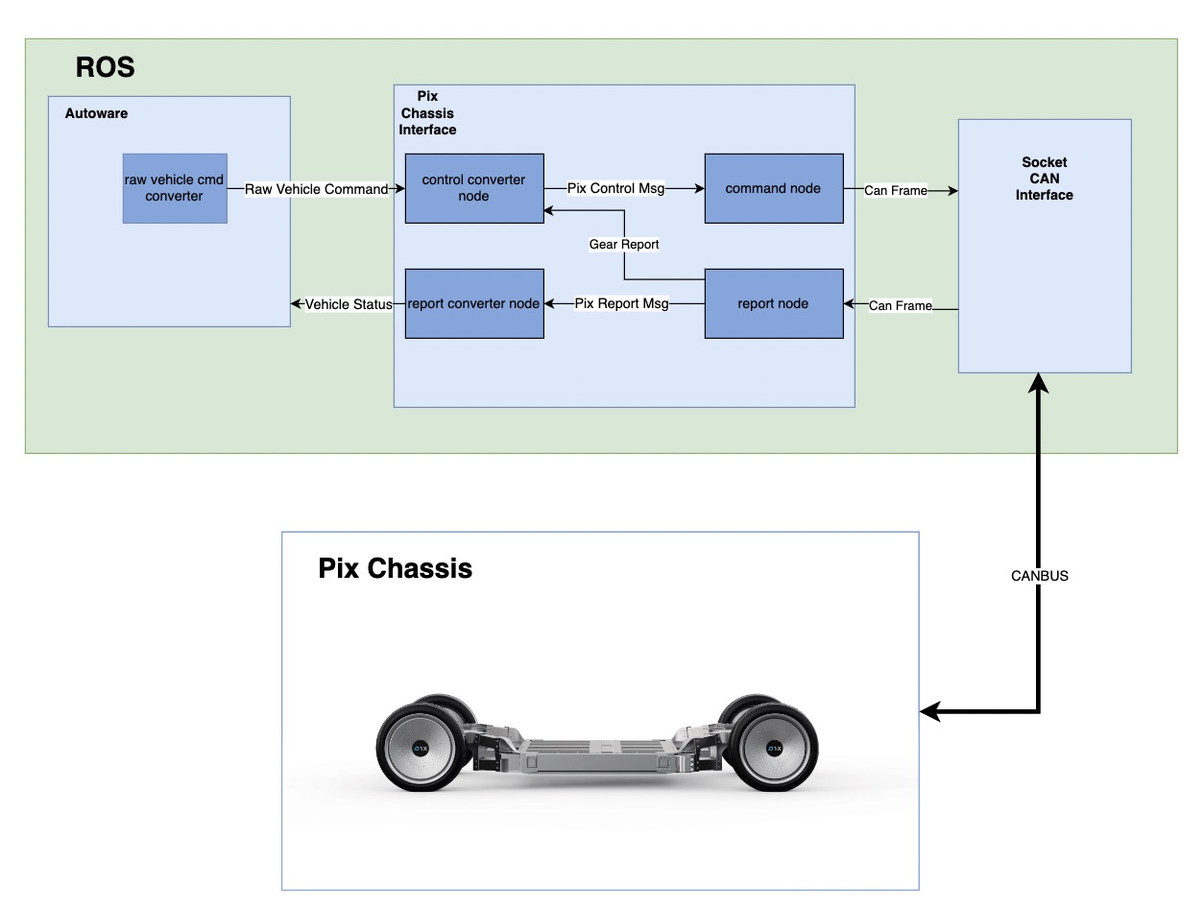
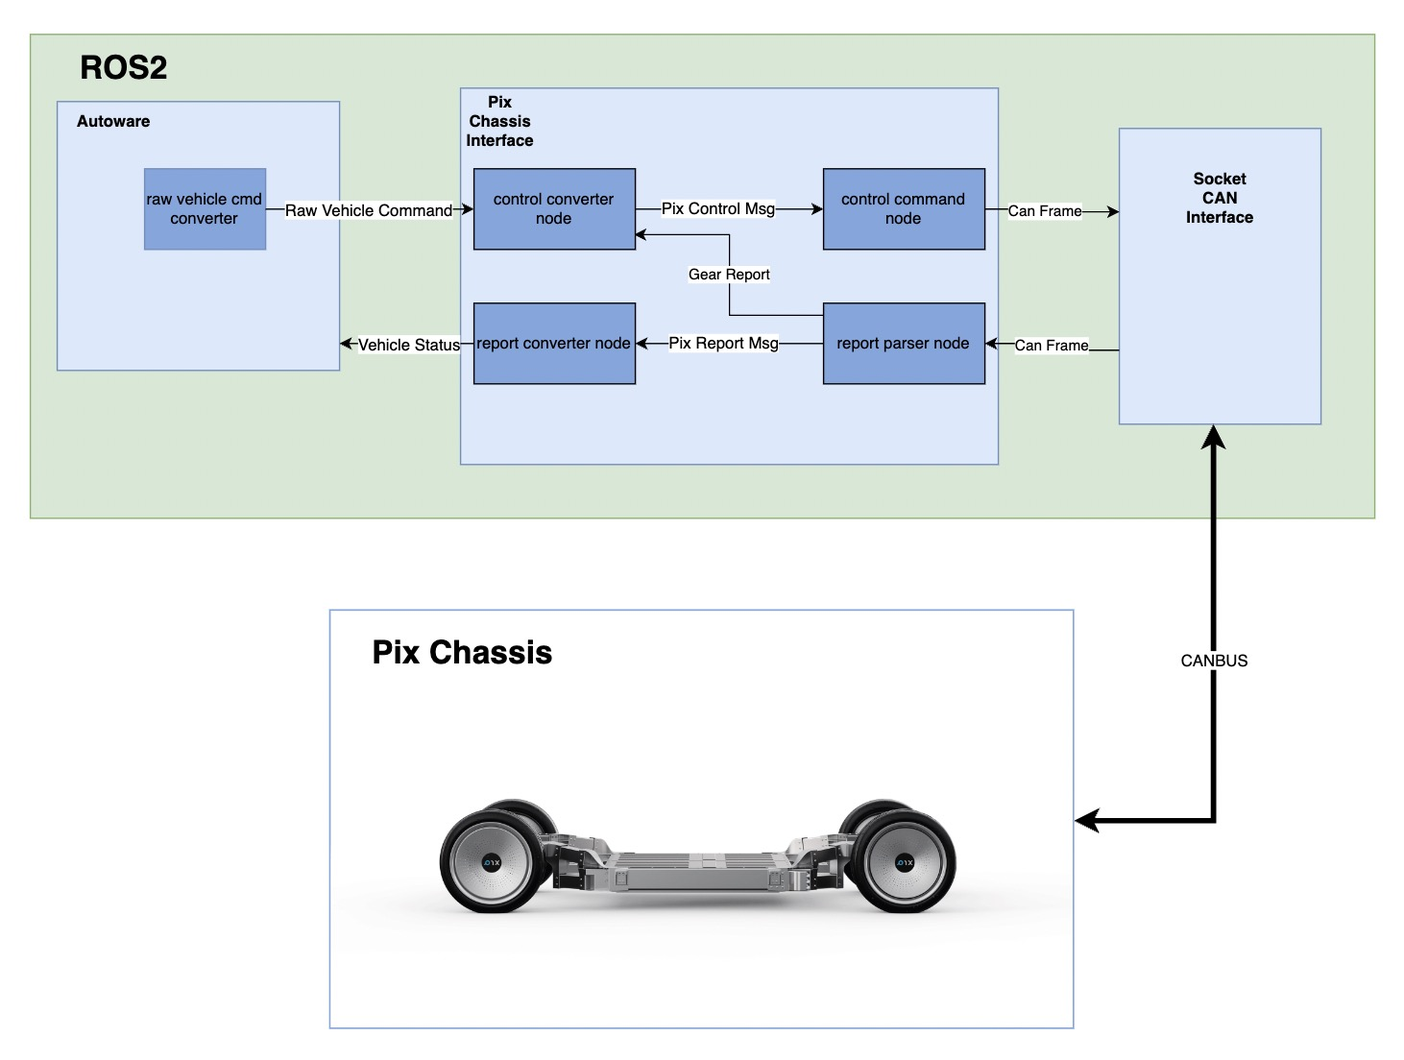
feat(vehicle-interface)/update design image and format doc

diff --git a/docs/hands-on-Autoware/vehicle-interface.md b/docs/hands-on-Autoware/vehicle-interface.md
@@ -27,15 +27,16 @@ There are three main functions for Pix Chasssis Interface:
 
 | Input           | Topic(Data Type)                                                   | Explanation |
 | --------------- | ------------------------------------------------------------------ | ----------- |
-| autonomous driving to vehicle drive control| `/pix_hooke/a2v_drivectrl_130`<br>([pix_hooke_driver_msgs/msg/A2vDriveCtrl](https://github.com/pixmoving-moveit/pix_driver/blob/main/pix_hooke_driver_msgs/msg/A2vDriveCtrl.msg)) | [table below](#the-detailed-contents-in-a2vdrivectrlself-driving-to-vehicle-drive-control-are-as-follows) |
-| autonomous driving to vehicle brake control|`/pix_hooke/a2v_brakectrl_131`<br>([pix_hooke_driver_msgs/msg/A2vBrakeCtrl](https://github.com/pixmoving-moveit/pix_driver/blob/main/pix_hooke_driver_msgs/msg/A2vBrakeCtrl.msg)) | [table below](#the-detailed-contents-in-a2vbrakectrlself-driving-to-vehicle-brake-control-are-as-follows) |
-| autonomous driving to vehicle steering control |`/pix_hooke/a2v_steerctrl_132`<br>([pix_hooke_driver_msgs/msg/A2vSteerCtrl](https://github.com/pixmoving-moveit/pix_driver/blob/main/pix_hooke_driver_msgs/msg/A2vSteerCtrl.msg)) | [table below](#the-detailed-contents-in-a2vsteerctrlself-driving-to-vehicle-steering-control-are-as-follows) |
-| autonomous driving to vehicle control|`/pix_hooke/a2v_vehiclectrl_133`<br>([pix_hooke_driver_msgs/msg/A2vWheelCtrl](https://github.com/pixmoving-moveit/pix_driver/blob/main/pix_hooke_driver_msgs/msg/A2vWheelCtrl.msg)) | [table below](#the-detailed-contents-in-a2vvehiclectrlself-driving-to-vehicle-vehicle-control-are-as-follows) |
-| autonomous driving to vehicle motor control|`/pix_hooke/a2v_wheelctrl_135`<br>([pix_hooke_driver_msgs/msg/A2vVehicleCtrl](https://github.com/pixmoving-moveit/pix_driver/blob/main/pix_hooke_driver_msgs/msg/A2vVehicleCtrl.msg)) | [table below](#the-detailed-contents-in-a2vwheelctrlself-driving-to-vehicle-motor-control-are-as-follows) |
+| autonomous driving to vehicle drive control| `/pix_hooke/a2v_drivectrl_130`<br>([pix_hooke_driver_msgs/msg/A2vDriveCtrl](https://github.com/pixmoving-moveit/pix_driver/blob/main/pix_hooke_driver_msgs/msg/A2vDriveCtrl.msg)) | [A2vDriveCtrl](#a2vdrivectrl) |
+| autonomous driving to vehicle brake control|`/pix_hooke/a2v_brakectrl_131`<br>([pix_hooke_driver_msgs/msg/A2vBrakeCtrl](https://github.com/pixmoving-moveit/pix_driver/blob/main/pix_hooke_driver_msgs/msg/A2vBrakeCtrl.msg)) | [A2vBrakeCtrl](#a2vbrakectrl) |
+| autonomous driving to vehicle steering control |`/pix_hooke/a2v_steerctrl_132`<br>([pix_hooke_driver_msgs/msg/A2vSteerCtrl](https://github.com/pixmoving-moveit/pix_driver/blob/main/pix_hooke_driver_msgs/msg/A2vSteerCtrl.msg)) | [A2vSteerCtrl](#a2vsteerctrl) |
+| autonomous driving to vehicle control|`/pix_hooke/a2v_vehiclectrl_133`<br>([pix_hooke_driver_msgs/msg/A2vVehicleCtrl](https://github.com/pixmoving-moveit/pix_driver/blob/main/pix_hooke_driver_msgs/msg/A2vVehicleCtrl.msg)) | [A2vVehicleCtrl](#a2vvehiclectrl) |
+| autonomous driving to vehicle motor control|`/pix_hooke/a2v_wheelctrl_135`<br>([pix_hooke_driver_msgs/msg/A2vWheelCtrl](https://github.com/pixmoving-moveit/pix_driver/blob/main/pix_hooke_driver_msgs/msg/A2vWheelCtrl.msg)) | [A2vWheelCtrl](#a2vwheelctrl) |
 
-#### **The detailed contents in `A2vDriveCtrl(self-driving to vehicle drive control)` are as follows.**
+#### A2vDriveCtrl
+**The detailed contents in `A2vDriveCtrl(self-driving to vehicle drive control)` are as follows.**
 
-| Input                  | Data Type        | Explanation                            |
+| Content                  | Data Type        | Explanation                            |
 | ----------------------- | ---------------- | -----------                            |
 | header | std_msgs/Header | header                   |
 | acu_chassis_driver_en_ctrl  | std_msgs/int8 | enable/disable longitudinal acceleration contrl `{0: 'ACU_CHASSISDRIVERENCTRL_DISABLE', 1: 'ACU_CHASSISDRIVERENCTRL_ENABLE'}` |
@@ -44,9 +45,10 @@ There are three main functions for Pix Chasssis Interface:
 | acu_chassis_speed_ctrl | std_msgs/float32 | Target velocity [m/s] |
 | acu_chassis_throttle_pdl_target | std_msgs/float32 | target accel pedal value `0.0-100.0` |
 
-#### **The detailed contents in `A2vBrakeCtrl(self-driving to vehicle brake control)` are as follows.**
+#### A2vBrakeCtrl
+**The detailed contents in `A2vBrakeCtrl(self-driving to vehicle brake control)` are as follows.**
 
-| Input                  | Data Type        | Explanation                            |
+| Content                  | Data Type        | Explanation                            |
 | ----------------------- | ---------------- | -----------                            |
 | header                | std_msgs/Header | header                   |
 | acu_chassis_brake_en  | std_msgs/int8 | enable/disable longitudinal deacceleration contrl `0: 'ACU_CHASSISBRAKEEN_DISABLE', 1: 'ACU_CHASSISBRAKEEN_ENABLE'` |
@@ -54,9 +56,10 @@ There are three main functions for Pix Chasssis Interface:
 | acu_chassis_brake_pdl_target | std_msgs/float32 | target brake pedal value `0.0-100.0`|
 | acu_chassis_epb_ctrl | std_msgs/int8 |parking brake control `0: 'ACU_CHASSISEPBCTRL_DEFAULT', 1: 'ACU_CHASSISEPBCTRL_BRAKE', 2: 'ACU_CHASSISEPBCTRL_RELEASE'`|
 
-#### **The detailed contents in `A2vSteerCtrl(self-driving to vehicle steering control)` are as follows.**
+#### A2vSteerCtrl
+**The detailed contents in `A2vSteerCtrl(self-driving to vehicle steering control)` are as follows.**
 
-| Input                  | Data Type        | Explanation                            |
+| Content                  | Data Type        | Explanation                            |
 | ----------------------- | ---------------- | -----------                            |
 | header                | std_msgs/Header | header                   |
 | acu_chassis_steer_en_ctrl  | std_msgs/int8 | enable/disable lateral/steering contrl `{0: 'ACU_CHASSISSTEERENCTRL_DISABLE', 1: 'ACU_CHASSISSTEERENCTRL_ENABLE'}` |
@@ -65,9 +68,10 @@ There are three main functions for Pix Chasssis Interface:
 | acu_chassis_steer_angle_rear_target | std_msgs/int32 |target rear steering angle. `-500-500`. Works only when `ACU_ChassisSteerModeCtrl=ACU_CHASSISSTEERMODECTRL_FRONT_BACK` |
 | acu_chassis_steer_angle_speed_ctrl | std_msgs/float32 |target steering speed `0-500` |
 
-#### **The detailed contents in `A2vVehicleCtrl(self-driving to vehicle Vehicle Control)` are as follows.**
+#### A2vVehicleCtrl
+**The detailed contents in `A2vVehicleCtrl(self-driving to vehicle Vehicle Control)` are as follows.**
 
-| Input                  | Data Type        | Explanation                            |
+| Content                  | Data Type        | Explanation                            |
 | ----------------------- | ---------------- | -----------                            |
 | header                | std_msgs/Header | header |
 | acu_vehicle_pos_lamp_ctrl  | std_msgs/int8 | positioning lamp contorl `{0: 'ACU_VEHICLEPOSLAMPCTRL_OFF', 1: 'ACU_VEHICLEPOSLAMPCTRL_ON'}`|
@@ -85,9 +89,10 @@ There are three main functions for Pix Chasssis Interface:
 | acu_chassis_speed_limite_mode | std_msgs/int8| speed limit model `{0: 'ACU_CHASSISSPEEDLIMITEMODE_DEFAULT', 1: 'ACU_CHASSISSPEEDLIMITEMODE_LIMIT'}`|
 | acu_chassis_speed_limite_val | std_msgs/int32| velocity limit control `m/s` |
 
-#### **The detailed contents in `A2vWheelCtrl(self-driving to vehicle motor control)` are as follows.**
+#### A2vWheelCtrl
+**The detailed contents in `A2vWheelCtrl(self-driving to vehicle motor control)` are as follows.**
 
-| Input                  | Data Type        | Explanation                            |
+| Content                  | Data Type        | Explanation                            |
 | ----------------------- | ---------------- | -----------                            |
 | header                | std_msgs/Header | header                   |
 | acu_motor_torque_lf_crtl | std_smgs/float32 | left front motor torque control [Nm] `-200.0-200.0` |
@@ -110,7 +115,7 @@ There are three main functions for Pix Chasssis Interface:
 **The inputs of `Report Parser Node` are [can_msgs/Frame](http://docs.ros.org/en/melodic/api/can_msgs/html/msg/Frame.html) from [Socket CAN Interface](https://github.com/autowarefoundation/ros2_socketcan/tree/1.1.0).**
 
 
-| Output (to Autoware)          | Topic(Data Type)                                                      | Explanation                                 |
+| Input (from SocketCAN Interface)          | Topic(Data Type)                                                      | Explanation                                 |
 | ---------------               | ------------------------------------------------------------------    | ------------------------                    |
 | can frame      | `/from_can_bus`<br>([can_msgs/msg/Frame](http://docs.ros.org/en/melodic/api/can_msgs/html/msg/Frame.html)) | control command in CAN Frams |
 
@@ -118,22 +123,23 @@ There are three main functions for Pix Chasssis Interface:
 
 **The outputs of Report Parser Node**
 
-| Input           | Topic(Data Type)                                                   | Explanation |
+| Output           | Topic(Data Type)                                                   | Explanation |
 | --------------- | ------------------------------------------------------------------ | ----------- |
-| vehicle to autonomous driving drive status feedback | `/pix_hooke/v2a_drivestafb`<br>([pix_hooke_driver_msgs/msg/V2aDriveStaFb](https://github.com/pixmoving-moveit/pix_driver/blob/main/pix_hooke_driver_msgs/msg/V2aDriveStaFb.msg)) | [table below](#the-detailed-contents-in-v2adrivestafbvehicle-to-autonomous-driving-status-feedback-are-as-follows) |
-| vehicle to autonomous driving brake status feedback |`/pix_hooke/v2a_brakestafb`<br>([pix_hooke_driver_msgs/msg/V2aBrakeStaFb](https://github.com/pixmoving-moveit/pix_driver/blob/main/pix_hooke_driver_msgs/msg/V2aBrakeStaFb.msg)) | [table below](#the-detailed-contents-in-v2abrakestafbvehicle-to-autonomous-driving-braking-status-feedback-are-as-follows) |
-| vehicle to autonomous driving steering status feedback |`/pix_hooke/v2a_steerstafb`<br>([pix_hooke_driver_msgs/msg/V2aSteerStaFb](https://github.com/pixmoving-moveit/pix_driver/blob/main/pix_hooke_driver_msgs/msg/V2aSteerStaFb.msg)) | [table below](#the-detailed-contents-in-v2asteerstafbvehicle-to-autonomous-driving-steering-status-feedback-are-as-follows) |
-| vehicle to autonomous driving vehicle working status feedback |`/pix_hooke/v2a_vehicleworkstafb`<br>([pix_hooke_driver_msgs/msg/V2aVehicleWorkStaFb](https://github.com/pixmoving-moveit/pix_driver/blob/main/pix_hooke_driver_msgs/msg/V2aVehicleWorkStaFb.msg)) | [table below](#the-detailed-contents-in-v2avehicleworkstafbvehicle-to-autonomous-driving-vehicle-work-status-feedback-are-as-follows) |
-| vehicle to autonomous driving power status feedback |`/pix_hooke/v2a_powerstafb`<br>([pix_hooke_driver_msgs/msg/V2aPowerStaFb](https://github.com/pixmoving-moveit/pix_driver/blob/main/pix_hooke_driver_msgs/msg/V2aPowerStaFb.msg)) | [table below](#the-detailed-contents-in-v2apowerstafbvehicle-to-autonomous-driving-power-status-feedback-are-as-follows) |
-| vehicle to autonomous driving vehicle status feedback |`/pix_hooke/v2a_vehiclestafb`<br>([pix_hooke_driver_msgs/msg/V2aVehicleStaFb](https://github.com/pixmoving-moveit/pix_driver/blob/main/pix_hooke_driver_msgs/msg/V2aVehicleStaFb.msg)) | [table below](#the-detailed-contents-in-v2avehiclestafbvehicle-to-autonomous-driving-vehicle-status-feedback-are-as-follows) |
-| vehicle to autonomous driving vehicle fault status feedback |`/pix_hooke/v2a_vehiclefltsta`<br>([pix_hooke_driver_msgs/msg/V2aVehicleFltSta](https://github.com/pixmoving-moveit/pix_driver/blob/main/pix_hooke_driver_msgs/msg/V2aVehicleFltSta.msg)) | [table below](#the-detailed-contents-in-v2avehiclefltstavehicle-to-autonomous-driving-vehicle-fault-feedback-are-as-follows) |
-| vehicle to autonomous driving chassis wheel speed feedback |`/pix_hooke/v2a_chassiswheelrpmfb`<br>([pix_hooke_driver_msgs/msg/V2aChassisWheelRpmFb](https://github.com/pixmoving-moveit/pix_driver/blob/main/pix_hooke_driver_msgs/msg/V2aChassisWheelRpmFb.msg)) | [table below](#the-detailed-contents-in-v2achassiswheelrpmfbvehicle-to-autonomous-driving-vehicle-wheel-speed-feedback-are-as-follows) |
-| vehicle to autonomous driving tire pressure feedback |`/pix_hooke/v2a_chassiswheeltirepressfb`<br>([pix_hooke_driver_msgs/msg/V2aChassisWheelTirePressFb](https://github.com/pixmoving-moveit/pix_driver/blob/main/pix_hooke_driver_msgs/msg/V2aChassisWheelTirePressFb.msg)) | [table below](#the-detailed-contents-in-v2achassiswheeltirepressfbvehicle-to-autonomous-driving-tire-pressure-feedback-are-as-follows) |
-| vehicle to autonomous driving wheel angle feedback |`/pix_hooke/v2a_chassiswheelanglefb`<br>([pix_hooke_driver_msgs/msg/V2aChassisWheelAngleFb](https://github.com/pixmoving-moveit/pix_driver/blob/main/pix_hooke_driver_msgs/msg/V2aChassisWheelAngleFb.msg)) | [table below](#the-detailed-contents-in-v2achassiswheelanglefbvehicle-to-autonomous-driving-steering-wheel-angle-feedback-are-as-follows) |
+| vehicle to autonomous driving drive status feedback | `/pix_hooke/v2a_drivestafb`<br>([pix_hooke_driver_msgs/msg/V2aDriveStaFb](https://github.com/pixmoving-moveit/pix_driver/blob/main/pix_hooke_driver_msgs/msg/V2aDriveStaFb.msg)) | [V2aDriveStaFb](#v2adrivestafb) |
+| vehicle to autonomous driving brake status feedback |`/pix_hooke/v2a_brakestafb`<br>([pix_hooke_driver_msgs/msg/V2aBrakeStaFb](https://github.com/pixmoving-moveit/pix_driver/blob/main/pix_hooke_driver_msgs/msg/V2aBrakeStaFb.msg)) | [V2aBrakeStaFb](#v2abrakestafb) |
+| vehicle to autonomous driving steering status feedback |`/pix_hooke/v2a_steerstafb`<br>([pix_hooke_driver_msgs/msg/V2aSteerStaFb](https://github.com/pixmoving-moveit/pix_driver/blob/main/pix_hooke_driver_msgs/msg/V2aSteerStaFb.msg)) | [V2aSteerStaFb](#v2asteerstafb) |
+| vehicle to autonomous driving vehicle working status feedback |`/pix_hooke/v2a_vehicleworkstafb`<br>([pix_hooke_driver_msgs/msg/V2aVehicleWorkStaFb](https://github.com/pixmoving-moveit/pix_driver/blob/main/pix_hooke_driver_msgs/msg/V2aVehicleWorkStaFb.msg)) | [V2aVehicleWorkStaFb](#v2avehicleworkstafb) |
+| vehicle to autonomous driving power status feedback |`/pix_hooke/v2a_powerstafb`<br>([pix_hooke_driver_msgs/msg/V2aPowerStaFb](https://github.com/pixmoving-moveit/pix_driver/blob/main/pix_hooke_driver_msgs/msg/V2aPowerStaFb.msg)) | [V2aPowerStaFb](#v2apowerstafb) |
+| vehicle to autonomous driving vehicle status feedback |`/pix_hooke/v2a_vehiclestafb`<br>([pix_hooke_driver_msgs/msg/V2aVehicleStaFb](https://github.com/pixmoving-moveit/pix_driver/blob/main/pix_hooke_driver_msgs/msg/V2aVehicleStaFb.msg)) | [V2aVehicleStaFb](#v2avehiclestafb) |
+| vehicle to autonomous driving vehicle fault status feedback |`/pix_hooke/v2a_vehiclefltsta`<br>([pix_hooke_driver_msgs/msg/V2aVehicleFltSta](https://github.com/pixmoving-moveit/pix_driver/blob/main/pix_hooke_driver_msgs/msg/V2aVehicleFltSta.msg)) | [V2aVehicleFltSta](#v2avehiclefltsta) |
+| vehicle to autonomous driving chassis wheel speed feedback |`/pix_hooke/v2a_chassiswheelrpmfb`<br>([pix_hooke_driver_msgs/msg/V2aChassisWheelRpmFb](https://github.com/pixmoving-moveit/pix_driver/blob/main/pix_hooke_driver_msgs/msg/V2aChassisWheelRpmFb.msg)) | [V2aChassisWheelRpmFb](#v2achassiswheelrpmfb) |
+| vehicle to autonomous driving tire pressure feedback |`/pix_hooke/v2a_chassiswheeltirepressfb`<br>([pix_hooke_driver_msgs/msg/V2aChassisWheelTirePressFb](https://github.com/pixmoving-moveit/pix_driver/blob/main/pix_hooke_driver_msgs/msg/V2aChassisWheelTirePressFb.msg)) | [V2aChassisWheelTirePressFb](#v2achassiswheeltirepressfb) |
+| vehicle to autonomous driving wheel angle feedback |`/pix_hooke/v2a_chassiswheelanglefb`<br>([pix_hooke_driver_msgs/msg/V2aChassisWheelAngleFb](https://github.com/pixmoving-moveit/pix_driver/blob/main/pix_hooke_driver_msgs/msg/V2aChassisWheelAngleFb.msg)) | [V2aChassisWheelAngleFb](#v2achassiswheelanglefb) |
 
-#### **The detailed contents in `V2aDriveStaFb(vehicle to autonomous driving status feedback)` are as follows.**
+#### V2aDriveStaFb
+**The detailed contents in `V2aDriveStaFb(vehicle to autonomous driving status feedback)` are as follows.**
 
-| Input                  | Data Type        | Explanation                            |
+| Content                  | Data Type        | Explanation                            |
 | ----------------------- | ---------------- | -----------                            |
 | header | std_msgs/Header | header                   |
 | vcu_chassis_driver_en_sta  | std_msgs/int8 | drive enable status feedback `{0: 'VCU_CHASSISDRIVERENSTA_DISABLE', 1: 'VCU_CHASSISDRIVERENSTA_ENABLE'}` |
@@ -144,9 +150,10 @@ There are three main functions for Pix Chasssis Interface:
 | vcu_chassis_throttle_padl_fb | std_msgs/float32 | pedal value feedback `0.0-100.0` |
 | vcu_chassis_accceleration_fb | std_msgs/float32 | target accel pedal value [m/s2] `-20.0-20.0` |
 
-#### **The detailed contents in `V2aBrakeStaFb(vehicle to autonomous driving braking status feedback)` are as follows.**
+#### V2aBrakeStaFb
+**The detailed contents in `V2aBrakeStaFb(vehicle to autonomous driving braking status feedback)` are as follows.**
 
-| Input                  | Data Type        | Explanation                            |
+| Content                  | Data Type        | Explanation                            |
 | ----------------------- | ---------------- | -----------                            |
 | header | std_msgs/Header | header                   |
 | vcu_chassis_brake_en_sta  | std_msgs/int8 | braking enable status feedback `{0: 'VCU_CHASSISBRAKEENSTA_DISABLE', 1: 'VCU_CHASSISBRAKEENSTA_ENABLE'}` |
@@ -156,9 +163,10 @@ There are three main functions for Pix Chasssis Interface:
 | vcu_aeb_en_sta_fb | std_msgs/int8 | AEB enable status feedback `{0: 'VCU_AEBENSTAFB_OFF', 1: 'VCU_AEBENSTAFB_ON'}` |
 | vcu_aeb_trigger_sta_fb | std_msgs/int8 | AEB triggered status feedback `{0: 'VCU_AEBTRIGGERSTAFB_OFF', 1: 'VCU_AEBTRIGGERSTAFB_AEB_TRIGGER'}` |
 
-#### **The detailed contents in `V2aSteerStaFb(vehicle to autonomous driving steering status feedback)` are as follows.**
+#### V2aSteerStaFb
+**The detailed contents in `V2aSteerStaFb(vehicle to autonomous driving steering status feedback)` are as follows.**
 
-| Input                  | Data Type        | Explanation                            |
+| Content                  | Data Type        | Explanation                            |
 | ----------------------- | ---------------- | -----------                            |
 | header | std_msgs/Header | header |
 | vcu_chassis_steer_en_sta | std_msgs/int8 | steering control enable status feedback `{0: 'VCU_CHASSISSTEERENSTA_DISABLE', 1: 'VCU_CHASSISSTEERENSTA_ENABLE'}` |
@@ -169,9 +177,10 @@ There are three main functions for Pix Chasssis Interface:
 | vcu_chassis_steer_angle_rear_fb | std_msgs/int32 | steering angle of rear steering wheel [deg] `-500-500` |
 | vcu_chassis_steer_angle_speed_fb | std_msgs/float32 | angular speed of steering wheel [deg/s] `0-500` |
 
-#### **The detailed contents in `V2aVehicleWorkStaFb(vehicle to autonomous driving vehicle work status feedback)` are as follows.**
+#### V2aVehicleWorkStaFb
+**The detailed contents in `V2aVehicleWorkStaFb(vehicle to autonomous driving vehicle work status feedback)` are as follows.**
 
-| Input                  | Data Type        | Explanation                            |
+| Content                  | Data Type        | Explanation                            |
 | ----------------------- | ---------------- | -----------                            |
 | header | std_msgs/Header | header |
 | vcu_driving_mode_fb | std_msgs/int8 | vcu driving mode feedback `{0: 'VCU_DRIVINGMODEFB_STANDBY', 1: 'VCU_DRIVINGMODEFB_SELF_DRIVING', 2: 'VCU_DRIVINGMODEFB_REMOTE', 3: 'VCU_DRIVINGMODEFB_MAN'}` |
@@ -190,9 +199,10 @@ There are three main functions for Pix Chasssis Interface:
 | vcu_life | std_msgs/int32 | life cycle count `0-255` |
 | vcu_check_sum | std_msgs/int32 | check sum |
 
-#### **The detailed contents in `V2aPowerStaFb(vehicle to autonomous driving power status feedback)` are as follows.**
+#### V2aPowerStaFb
+**The detailed contents in `V2aPowerStaFb(vehicle to autonomous driving power status feedback)` are as follows.**
 
-| Input                  | Data Type        | Explanation                            |
+| Content                  | Data Type        | Explanation                            |
 | ----------------------- | ---------------- | -----------                            |
 | header | std_msgs/Header | header |
 | vcu_chassis_bms_reserved_1 | std_msgs/int32 | reserved position |
@@ -204,9 +214,10 @@ There are three main functions for Pix Chasssis Interface:
 | vcu_chassis_bms_max_temp | std_msgs/int32 | BMX max temperature feedback [°C] `-40-80`|
 | vcu_chassis_bms_reserved_2 | std_msgs/int32 | reserved position |
 
-#### **The detailed contents in `V2aVehicleStaFb(vehicle to autonomous driving vehicle status feedback)` are as follows.**
+#### V2aVehicleStaFb
+**The detailed contents in `V2aVehicleStaFb(vehicle to autonomous driving vehicle status feedback)` are as follows.**
 
-| Input                  | Data Type        | Explanation                            |
+| Content                  | Data Type        | Explanation                            |
 | ----------------------- | ---------------- | -----------                            |
 | header | std_msgs/Header | header                   |
 | vcu_vehicle_pos_lamp_fb  | std_msgs/int8 | Positioning lamp feedback `{0: 'VCU_VEHICLEPOSLAMPFB_OFF', 1: 'VCU_VEHICLEPOSLAMPFB_ON'}` |
@@ -226,9 +237,10 @@ There are three main functions for Pix Chasssis Interface:
 | vcu_vehicle_safety_belt_3 | std_msgs/int8 | safty belt 3 feedback `{0: 'VCU_VEHICLESAFETYBELT3_NO', 1: 'VCU_VEHICLESAFETYBELT3_SIT', 2: 'VCU_VEHICLESAFETYBELT3_SAFETYBELT', 3: 'VCU_VEHICLESAFETYBELT3_UNKNOW_SENSOR_ERROR'}` |
 | vcu_vehicle_safety_belt_4 | std_msgs/int8 | safty belt 4 feedback `{0: 'VCU_VEHICLESAFETYBELT4_NO', 1: 'VCU_VEHICLESAFETYBELT4_SIT', 2: 'VCU_VEHICLESAFETYBELT4_SAFETYBELT', 3: 'VCU_VEHICLESAFETYBELT4_UNKNOW_SENSOR_ERROR'}` |
 
-#### **The detailed contents in `V2aVehicleFltSta(vehicle to autonomous driving vehicle fault feedback)` are as follows.**
+#### V2aVehicleFltSta
+**The detailed contents in `V2aVehicleFltSta(vehicle to autonomous driving vehicle fault feedback)` are as follows.**
 
-| Input                  | Data Type        | Explanation                            |
+| Content                  | Data Type        | Explanation                            |
 | ----------------------- | ---------------- | -----------                            |
 | header | std_msgs/Header | header |
 | vcu_sys_motor_over_temp_sta | std_msgs/int8 | motor system over-temperature status `{0: 'VCU_SYSMOTOROVERTEMPSTA_NORMAL', 1: 'VCU_SYSMOTOROVERTEMPSTA_OVER_TEMP'}` |
@@ -248,9 +260,10 @@ There are three main functions for Pix Chasssis Interface:
 | vcu_sys_bms_flt | std_msgs/int8 | BMS fault `{0: 'VCU_SYSBMSFLT_NORMAL', 1: 'VCU_SYSBMSFLT_FAULT_LEVEL_1', 2: 'VCU_SYSBMSFLT_FAULT_LEVEL_2', 3: 'VCU_SYSBMSFLT_FAULT_LEVEL_3', 4: 'VCU_SYSBMSFLT_FAULT_LEVEL_4'}`|
 | vcu_sys_dc_flt | std_msgs/int8 | DC system fault `{0: 'VCU_SYSDCFLT_NORMAL', 1: 'VCU_SYSDCFLT_FAULT_LEVEL_1', 2: 'VCU_SYSDCFLT_FAULT_LEVEL_2', 3: 'VCU_SYSDCFLT_FAULT_LEVEL_3', 4: 'VCU_SYSDCFLT_FAULT_LEVEL_4'}` |
 
-#### **The detailed contents in `V2aChassisWheelRpmFb(vehicle to autonomous driving vehicle wheel speed feedback)` are as follows.**
+#### V2aChassisWheelRpmFb
+**The detailed contents in `V2aChassisWheelRpmFb(vehicle to autonomous driving vehicle wheel speed feedback)` are as follows.**
 
-| Input                  | Data Type        | Explanation                            |
+| Content                  | Data Type        | Explanation                            |
 | ----------------------- | ---------------- | -----------                            |
 | header | std_msgs/Header | header |
 | vcu_chassis_wheel_rpm_lf | std_msgs/int32 | left front motor speed [rpm] `-2000-2000` |
@@ -258,9 +271,10 @@ There are three main functions for Pix Chasssis Interface:
 | vcu_chassis_wheel_rpm_lr | std_msgs/int32 | left rear motor speed [rpm] `-2000-2000` |
 | vcu_chassis_wheel_rpm_rr | std_msgs/int32 | right rear motor speed [rpm] `-2000-2000` |
 
-#### **The detailed contents in `V2aChassisWheelTirePressFb(vehicle to autonomous driving tire pressure feedback)` are as follows.**
+#### V2aChassisWheelTirePressFb
+**The detailed contents in `V2aChassisWheelTirePressFb(vehicle to autonomous driving tire pressure feedback)` are as follows.**
 
-| Input                  | Data Type        | Explanation                            |
+| Content                  | Data Type        | Explanation                            |
 | ----------------------- | ---------------- | -----------                            |
 | header | std_msgs/Header | header |
 | vcu_chassis_wheel_tire_press_lf | std_msgs/float32 | left front tire pressure [bar] `0.0-20.0` |
@@ -268,9 +282,10 @@ There are three main functions for Pix Chasssis Interface:
 | vcu_chassis_wheel_tire_press_lr | std_msgs/float32 | left rear tire pressure [bar] `0.0-20.0` |
 | vcu_chassis_wheel_tire_press_rr | std_msgs/float32 | right rear tire pressure [bar] `0.0-20.0` |
 
-#### **The detailed contents in `V2aChassisWheelAngleFb(vehicle to autonomous driving steering wheel angle feedback)` are as follows.**
+#### V2aChassisWheelAngleFb
+**The detailed contents in `V2aChassisWheelAngleFb(vehicle to autonomous driving steering wheel angle feedback)` are as follows.**
 
-| Input                  | Data Type        | Explanation                            |
+| Content                  | Data Type        | Explanation                            |
 | ----------------------- | ---------------- | -----------                            |
 | header | std_msgs/Header | header |
 | vcu_chassis_wheel_angle_lf | std_msgs/float32 | left front steering angle [deg] `-90|90` |
